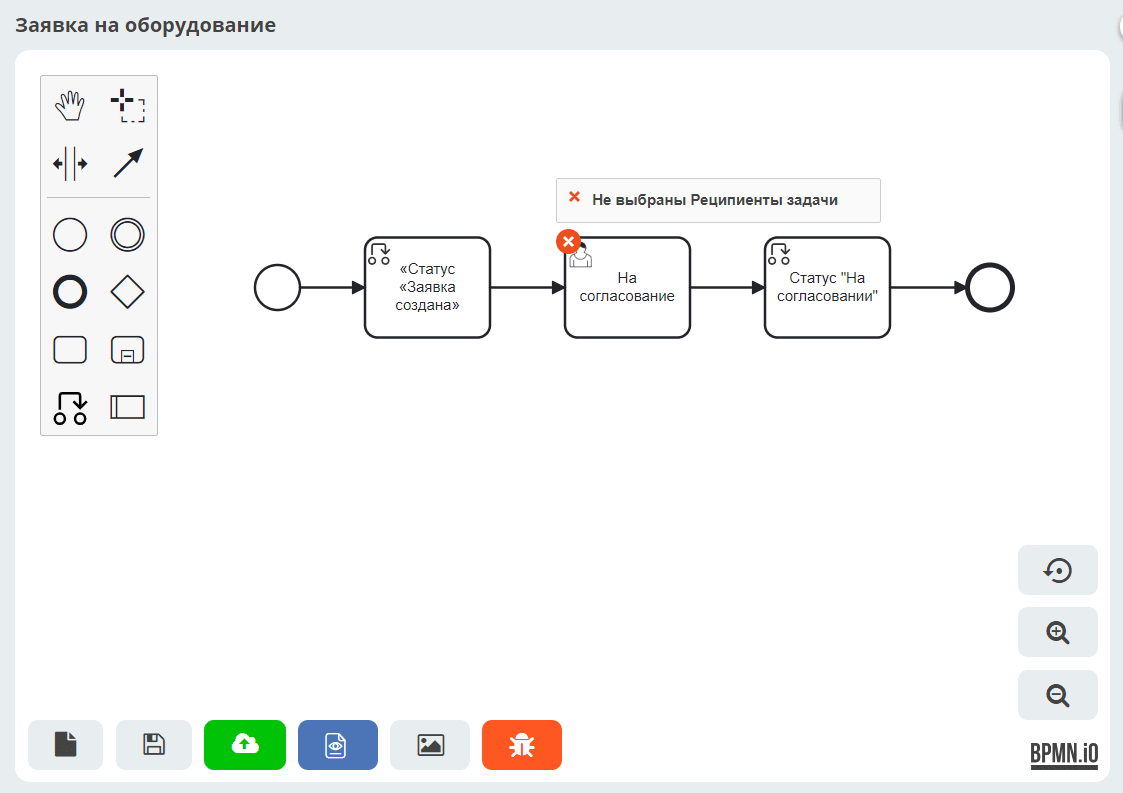
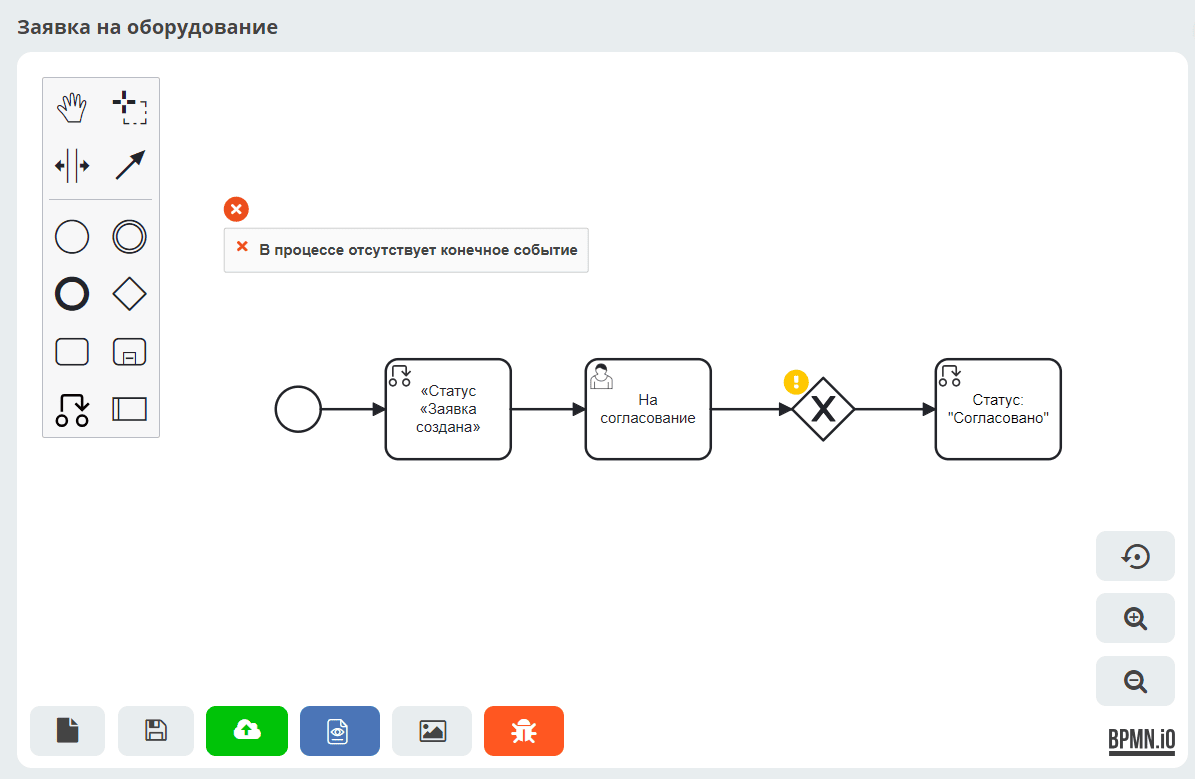
linter_update

diff --git a/docs/settings_kb/processes/ecos_bpmn/editor/ecos_bpmn_editor.rst b/docs/settings_kb/processes/ecos_bpmn/editor/ecos_bpmn_editor.rst
@@ -146,7 +146,7 @@
                 :width: 30
                 :align: center
 
-        - :ref:`изменить значение статуса элемента бизнес-процесса<set_status>`
+        - :ref:`изменить значение статуса<set_status>` элемента бизнес-процесса
       * - 
                .. image:: _static/29.png
                 :width: 30
@@ -183,22 +183,22 @@
 Режим включается/отключается по кнопке:
 
  .. image:: _static/linter_3.png
-       :width: 300
+       :width: 400
        :align: center
 
-Показывает ошибки и предупреждения как для элемента:
+При наведедении мышки на пиктограмму ошибки/ предупреждения показывается текст ошибки/ предупреждения:
 
  .. image:: _static/linter_2.png
        :width: 600
        :align: center
 
-так и суммарное количество ошибок и предупреждений для процесса:
+Суммарное количество ошибок и предупреждений для процесса показывается при наведении мышки на кнопку линтера:
 
  .. image:: _static/linter_1.png
-       :width: 300
+       :width: 400
        :align: center
 
-.. note:: 
+.. important::
 
  Процесс с выявленными предупрждениями может быть сохранен и опубликован. Предупреждения основаны на использовании лучших практик.
 
@@ -257,7 +257,7 @@
 
           | Пример **правильного** использования правила:
 
-               .. image:: _static/errors/Linter_err_05.png
+               .. image:: _static/errors/Linter_err_06.png
                 :width: 400
                 :align: center
       * - **Gateway излишний, т.к. имеет только один ввод и вывод**
@@ -273,6 +273,20 @@
 
                .. image:: _static/errors/Linter_err_08.png
                 :width: 400
+                :align: center
+      * - **В процессе/ подпроцессе отсутствует начальное событие**
+        - Ошибка
+        - | Проверяет наличие простого начального события в процессе или подпроцессе (не событийном).
+          | Пример **неправильного** использования правила:
+
+               .. image:: _static/errors/Linter_err_19.png
+                :width: 300
+                :align: center
+
+          | Пример **правильного** использования правила:
+
+               .. image:: _static/errors/Linter_err_20.png
+                :width: 300
                 :align: center
       * - **В процессе/подпроцессе отсутствует конечное событие**
         - Ошибка
@@ -387,34 +401,21 @@
                .. image:: _static/errors/Linter_err_18.png
                 :width: 400
                 :align: center
-      * - **В процессе отсутствует начальное событие**
+      * - **Стартовое событие должно быть пустым**
         - Ошибка
-        - | Проверяет наличие простого начального события в процессе или подпроцессе (не событийном).
+        - | Проверяет, что начальное (стартовое) событие внутри обычного подпроцесса пусто (не имеют определения события).
           | Пример **неправильного** использования правила:
 
-               .. image:: _static/errors/Linter_err_19.png
-                :width: 300
+               .. image:: _static/errors/Linter_err_33.png
+                :width: 400
                 :align: center
-
+          
           | Пример **правильного** использования правила:
 
-               .. image:: _static/errors/Linter_err_20.png
-                :width: 300
-                :align: center
-      * - **В подпроцессе отсутствует начальное событие**
-        - Ошибка
-        - | Проверяет, что стартовые события внутри обычных подпроцессов пусты (не имеют определения события).
-          | Пример **неправильного** использования правила:
-
-               .. image:: _static/errors/Linter_err_21.png
+               .. image:: _static/errors/Linter_err_34.png
                 :width: 400
                 :align: center
 
-          | Пример **правильного** использования правила:
-
-               .. image:: _static/errors/Linter_err_22.png
-                :width: 400
-                :align: center
       * - **Отсутствует элемент bpmndi**
         - Ошибка
         - | Проверяется отсутствие информации BPMNDI для элементов BPMN, которые должны иметь визуальное представление.

diff --git a/docs/settings_kb/processes/ecos_bpmn/editor/components/ecos_bpmn_components_seq_flow.rst b/docs/settings_kb/processes/ecos_bpmn/editor/components/ecos_bpmn_components_seq_flow.rst
@@ -27,7 +27,7 @@
               :width: 200
               :align: center 
 
-        - | **Стандартный поток управления** относится к потокам, берущим начало от Стартового события и следующим по ходу выполнения процесса.   
+        - | **Стандартный поток управления** (Sequence flow) относится к потокам, берущим начало от Стартового события и следующим по ходу выполнения процесса.   
       * - 
            
            .. image:: _static/seq_flow/default_flow.png
@@ -35,7 +35,7 @@
               :align: center 
 
 
-        - | **Поток управления по умолчанию** определяет ту ветвь бизнес-процесса, которая выполняется, когда все условия ветвления не выполнены. 
+        - | **Поток управления по умолчанию** (Default flow) определяет ту ветвь бизнес-процесса, которая выполняется, когда все условия ветвления не выполнены. 
           | Этот поток может использоваться как совместно с эксклюзивным шлюзом, так и без него. 
 
 .. _sequential flow_change:
@@ -56,7 +56,7 @@
        :align: center
 
 *	**Исходящий** (выход из задачи)
-*	**Скрипт** - скрипт, который должен вернуть булевое значение. Например: pasymentSum >= 30000
+*	**Скрипт** - скрипт, который должен вернуть булевое значение. Например: paymentSum >= 30000
 *	**Выражение** – expression (`подробнее о expressions <https://docs.camunda.io/docs/components/concepts/expressions/>`_)
 
 Например, для шлюза - **(2)** и **(3)**:

diff --git a/docs/introduction/ecos_modules/InDoc.rst b/docs/introduction/ecos_modules/InDoc.rst
@@ -1,7 +1,7 @@
-Модуль «ОРД»
-=============
+Модуль «Корреспонденция» Входящие
+========================================
 
-.. _ecos-order-ORD:
+.. _ecos-order-indoc:
 
 Модуль «ОРД» предназначен для автоматизации процесса работы с организационно-распорядительными документами: уставы, положения, правила, инструкции, регламенты, постановления, распоряжения, приказы, решения,
 протоколы, договоры, акты, письма, справки и др.

diff --git a/docs/introduction/ecos_modules.rst b/docs/introduction/ecos_modules.rst
@@ -8,6 +8,7 @@
     ecos_modules/order_pass
     ecos_modules/tasks
     ecos_modules/contract
+    ecos_modules/InDoc
     ecos_modules/ORD
     ecos_modules/offer
     ecos_modules/service_desk

diff --git a/docs/introduction/ecos_modules/meeting.rst b/docs/introduction/ecos_modules/meeting.rst
@@ -1,5 +1,5 @@
-Модуль "Совещания"
-==================
+Модуль «Совещания»
+====================
 
 .. _ecos-meetings:
 

diff --git a/docs/introduction/ecos_modules/order_pass.rst b/docs/introduction/ecos_modules/order_pass.rst
@@ -1,5 +1,5 @@
-Модуль "Пропуска"
-=================
+Модуль «Пропуска»
+===================
 
 .. _ecos-order-pass:
 

diff --git a/docs/introduction/ecos_modules/offer.rst b/docs/introduction/ecos_modules/offer.rst
@@ -1,5 +1,5 @@
-Модуль "Офферы"
-===============
+Модуль «Офферы»
+==================
 
 .. _ecos-offer:
 

diff --git a/docs/introduction/ecos_modules/contract.rst b/docs/introduction/ecos_modules/contract.rst
@@ -1,4 +1,4 @@
-Модуль "Договоры"
+Модуль «Договоры»
 ======================
 
 .. _ecos-contract:

diff --git a/docs/introduction/ecos_modules/tasks.rst b/docs/introduction/ecos_modules/tasks.rst
@@ -1,4 +1,4 @@
-Модуль "Поручения"
+Модуль «Поручения»
 =====================
 
 .. _ecos-tasks:

diff --git a/docs/introduction/ecos_modules/service_desk.rst b/docs/introduction/ecos_modules/service_desk.rst
@@ -1,4 +1,4 @@
-Модуль "Service Desk"
+Модуль «Service Desk»
 ======================
 
 .. _ecos-service-desk:
